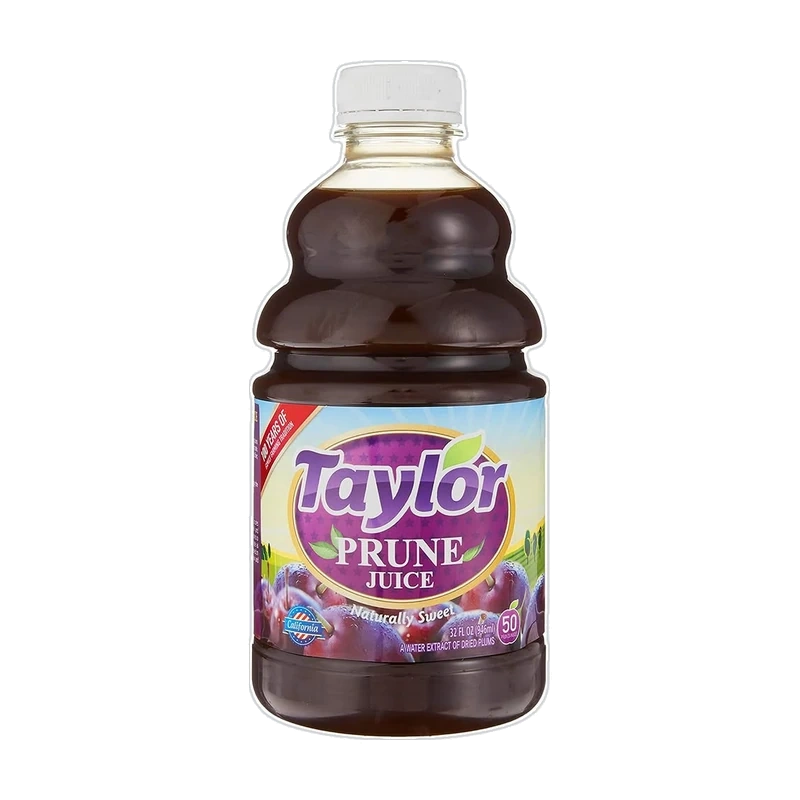
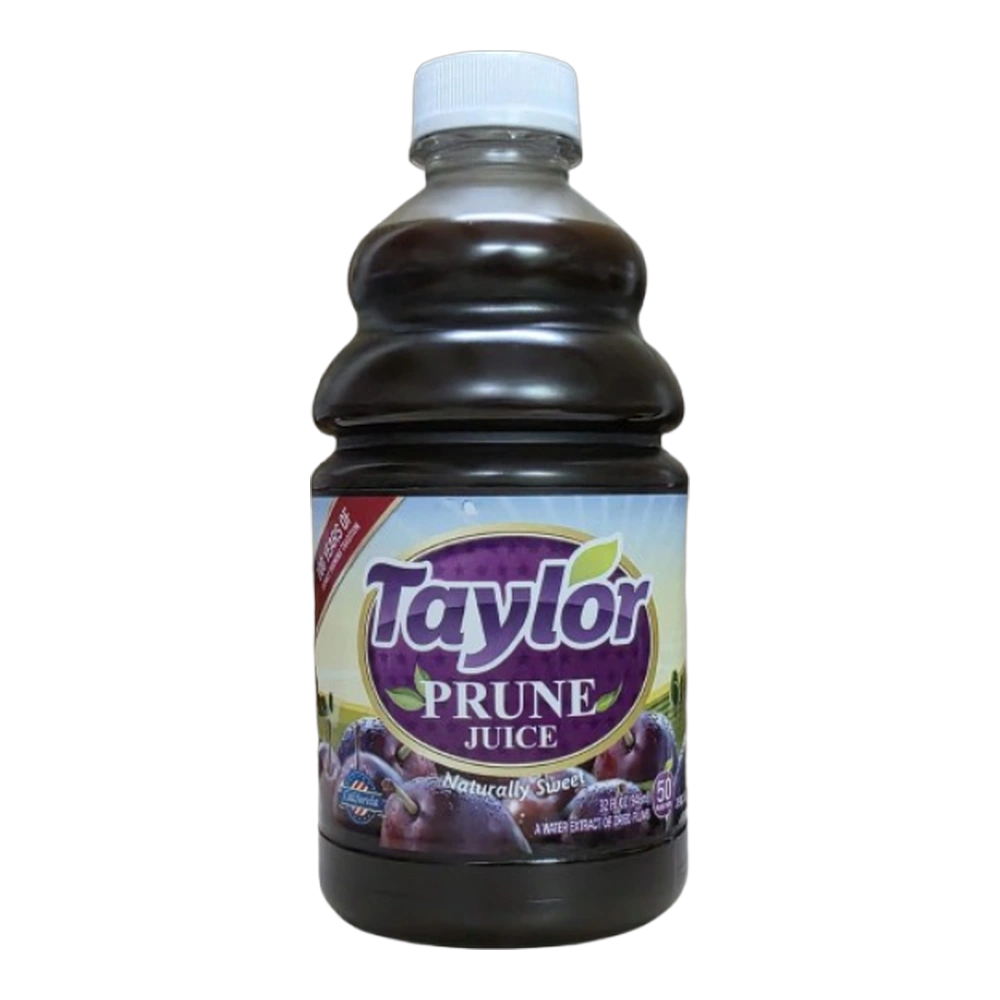
Catalogue: replace prune juice 946ml product image and use white thumb background

Changed region(s): [[0.3125, 0.0312, 0.6875, 0.9688]]

diff --git a/catalogue.html b/catalogue.html
@@ -138,8 +138,7 @@
     }
     .cat-thumb {
       aspect-ratio: 1 / 1;
-      background:
-        radial-gradient(circle at 50% 45%, #fafcfa 0%, #f4f7f4 100%);
+      background: #fff;
       display: flex;
       align-items: center;
       justify-content: center;
@@ -154,7 +153,7 @@
       height: auto;
       object-fit: contain;
     }
-    .cat-body { padding: 15px 17px 17px; display: flex; flex-direction: column; gap: 5px; flex: 1; }
+    .cat-body { padding: 15px 17px 17px; display: flex; flex-direction: column; gap: 5px; flex: 1; background: #f8fafc; }
     .cat-brand-row {
       display: flex;
       align-items: center;
